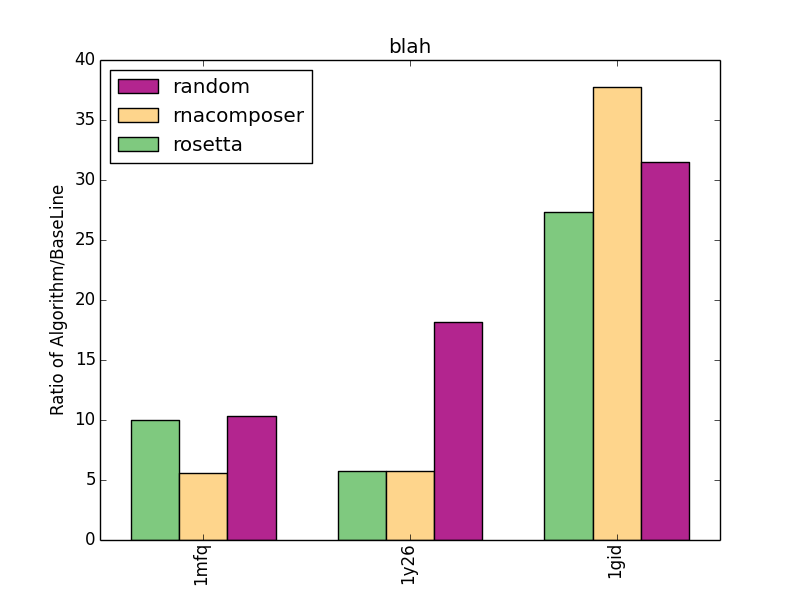
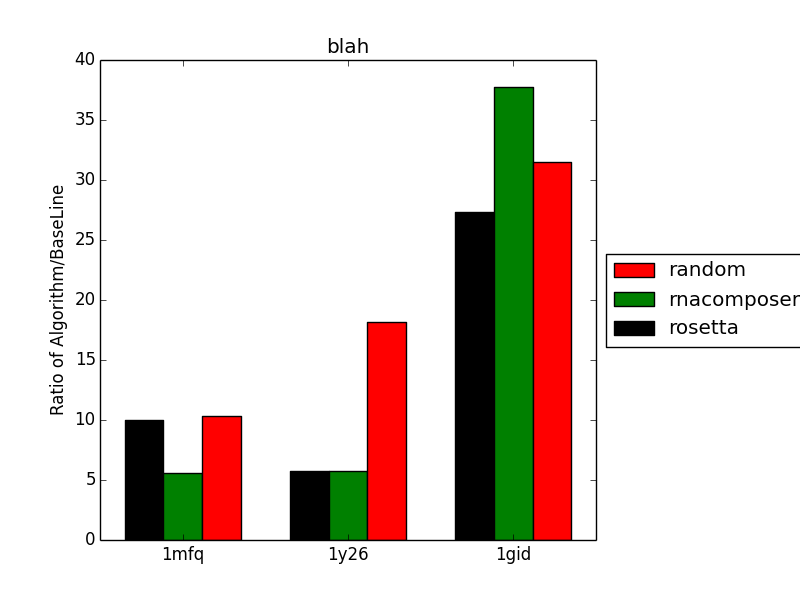
mr fu's request

Changed region(s): [[0.1562, 0.09, 1.0, 0.99], [0.125, 0.09, 0.4062, 0.3], [0.4062, 0.06, 0.5312, 0.09]]

diff --git a/Graphics/Graphs/grouped_bar_plots.py b/Graphics/Graphs/grouped_bar_plots.py
@@ -5,7 +5,7 @@ import operator as o
 import numpy as np
 
 
-def barplot(dpoints, file_name, title):
+def barplot(dpoints, file_name, title, color):
     '''
     Create a barchart for data across different categories with
     multiple conditions for each category.
@@ -43,12 +43,12 @@ def barplot(dpoints, file_name, title):
         vals = dpoints[dpoints[:,0] == cond][:,2].astype(np.float)
         pos = [j - (1 - space) / 2. + i * width for j in indeces]
         ax.bar(pos, vals, width=width, label=cond,
-               color=cm.Accent(float(i) / n))
+               color=color[conditions[i]]) #cm.Accent(float(i) / n))
 
     # Set the x-axis tick labels to be equal to the categories
     ax.set_xticks(indeces)
     ax.set_xticklabels(categories)
-    plt.setp(plt.xticks()[1], rotation=90)
+    plt.setp(plt.xticks()[1])
 
     # Add the axis labels
     ax.set_ylabel("Ratio of Algorithm/BaseLine")
@@ -56,7 +56,11 @@ def barplot(dpoints, file_name, title):
 
     # Add a legend
     handles, labels = ax.get_legend_handles_labels()
-    ax.legend(handles[::-1], labels[::-1], loc='upper left')
+    # ax.legend(handles[::-1], labels[::-1])
+    # Shrink current axis by 20%
+    box = ax.get_position()
+    ax.set_position([box.x0, box.y0, box.width * 0.8, box.height])
+    ax.legend(handles[::-1], labels[::-1], loc='center left', bbox_to_anchor=(1, 0.5))
     fig.savefig(file_name)
 
 
@@ -71,5 +75,5 @@ if __name__ == "__main__":
            ['random', '1gid', 31.46],
            ['random', '1y26', 18.16]])
 
-
-    barplot(dpoints, 'barchart_3.png', "blah")
+    color = {"rosetta":"Black", "rnacomposer": "Green", "random": "Red"}
+    barplot(dpoints, 'barchart_3.png', "blah", color)

diff --git a/jmoo_properties.py b/jmoo_properties.py
@@ -70,9 +70,9 @@ problems =[
     #  zdt3(),
     # golinski(), zdt6()
     # srinivas()
-    # POM3B(),
-    # POM3A(),
-    # POM3C(), POM3D(),
+    POM3B(),
+    POM3A(),
+    POM3C(), POM3D(),
     # dtlz1(9, 5),
     # dtlz2(14, 5),
     # dtlz3(14, 5),
@@ -93,12 +93,12 @@ problems =[
     # dtlz2(24, 15),
     # dtlz3(24, 15),
     # dtlz4(24, 15)
-    # XOMO_all(),
+    XOMO_all(),
     # NRP(50, 5, 5, 20, 120)
-    FeatureTreeModel("Web_Portal", valid_solutions=True),
-    FeatureTreeModel("eshop", valid_solutions=True),
-    FeatureTreeModel("cellphone", valid_solutions=True),
-    FeatureTreeModel("EIS", valid_solutions=True),
+    # FeatureTreeModel("Web_Portal", valid_solutions=True),
+    # FeatureTreeModel("eshop", valid_solutions=True),
+    # FeatureTreeModel("cellphone", valid_solutions=True),
+    # FeatureTreeModel("EIS", valid_solutions=True),
     # FeatureTreeModel("Web_Portal"),
     # FeatureTreeModel("eshop"),
     # FeatureTreeModel("cellphone"),

diff --git a/Graphics/charter.py b/Graphics/charter.py
@@ -396,13 +396,13 @@ def comparision_reporter(problems, algorithms, list_hypervolume_scores, list_spr
         file_name = 'charts/' + date_folder_prefix + '/figure' + str("%02d" % fignum) + "_" + tag + measure_name + '.png'
 
         from Graphs.grouped_bar_plots import barplot
-        barplot(np_x_dpoints, file_name, tag + measure_name)
+        barplot(np_x_dpoints, file_name, tag + measure_name, {alg.name:alg.color for alg in algorithms})
 
 
 def charter_reporter(problems, algorithms, Configurations, tag=""):
 
     hypervolume_scores = hypervolume_graphs(problems, algorithms, Configurations)
     spread_scores = spread_graphs(problems, algorithms, Configurations)
-    # joes_diagrams(problems, algorithms, Configurations)
+    joes_diagrams(problems, algorithms, Configurations)
     return [hypervolume_scores, spread_scores]
 
